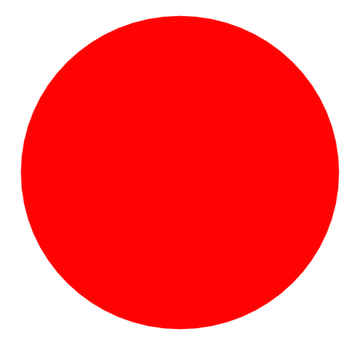
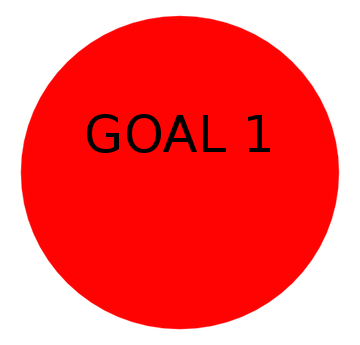
Nearly done mechanics, images labelled for debug'n
Psiturk recording, questionaire, reward probs not done yet.

Changed region(s): [[0.2444, 0.3188, 0.6417, 0.4638], [0.6722, 0.3188, 0.7639, 0.4638]]

diff --git a/web_code/static/js/exp.js b/web_code/static/js/exp.js
@@ -1,103 +1,176 @@
 //------------------------------------------------------------//
-// Below is the ct_bact experiment.
-//
-// A brief overview of experiment control flow:
-// - begin()
-//
+// This file defines the "actual" goals-vs-rewards task. 
 //------------------------------------------------------------//
 var experiment = function() {
-	var wordon, // time word is presented
-	    listening = false;
+	var choice_start;
+	var too_late_timer;
 
-	var stims = [
-			["/static/images/goal1.png","/static/images/goal2.png"],
-			["/static/images/goal2.png","/static/images/goal3.png"],
-			["/static/images/goal2.png","/static/images/goal3.png"],
-		];
+	var box_images  = ["/static/images/box1.jpg","/static/images/box2.jpg"];
+	var goal_images = ["/static/images/goal1.png",
+					   "/static/images/goal2.png",
+					   "/static/images/goal3.png"];
+	var subphase    = "goals";
+	var listening   = false;
+	var stim_order  = [0,1,0];
+	var succ_probs  = [0.8,0.2];
+	var goal_avail  = [0,2];
+	var goal_ind    = 1;
+	//stim_order = _.shuffle(stim_order);
 
-	stims = _.shuffle(stims);
-
-	function displayStim(stim){
-		d3.select("#trial").style("display","inline");
-	    d3.select("#fixation").style("display","none");
-
-		show_choice(stim[0],stim[1]);
-
-		wordon = new Date().getTime();
-		listening = true;
-		d3.select("#query").html('<p id="prompt">Type "F" selects left, "J" to selects right.</p>');
+	// This updates the goals which will be displayed as availabe choices.
+	function updateAvail(goal_ind,goal_avail){
+		var goal_chosen = goal_avail[goal_ind];
+		switch (goal_chosen) {
+			case 0:
+				return [1,2];
+				break;
+			case 1:
+				return [0,2];
+				break;
+			case 2:
+				return [0,1];
+				break;
+		}
 	};
 
-	var nextCycle = function() {
-		if (stims.length===0) {
+	// This runs when a participant runs out of time on a non-goal trial.
+	function tooLate(){
+		listening = false;
+		var response = "";
+
+		d3.select("#trial").style("display","none");
+
+		var too_long_text = "<h1>Sorry, you took to long!</h1><body>Please respond faster next time.<body>"
+		var too_long_div  = d3.select("#container-exp").append("div").html(too_long_text);
+		too_long_div.attr("id","too-long-div")
+
+		setTimeout(function(){
+			d3.select("#too-long-div").remove();
+			var resp_time = -1;
+			recordAndContinue(resp_time,response);
+		},2000)
+	};
+
+	// This records data and continues the experiment.
+	function recordAndContinue(resp_time,response){
+//		var cur_probs  = (cur_order == 0) ? succ_probs:succ_probs.reverse();
+//		var goal_found = Math.random() < cur_probs(goal_ind);
+
+		psiTurk.recordTrialData({'phase'     :"TEST",
+                                 'response'  :response,
+                                 //'goal_found':goal_found,
+                                 'resp_time' :resp_time}
+                               );
+		switch (subphase){
+			case "goals":
+				subphase = "boxes";
+				break;
+			case "boxes":
+				subphase = "goals"
+				break;
+		}
+
+		if (resp_time > 0){
+			var wait_time = 2000;
+			d3.select("#img" + rem_ind).remove();
+			d3.select("#query").html('<p id="prompt">Your selection ...</p>');			
+		}
+		else{
+			var wait_time = 0;
+		}
+
+		setTimeout(function(){
+			d3.select("#img0").remove();
+			d3.select("#img1").remove();
+			nextStep();
+		},wait_time)
+	};
+
+	// This displays a choice between two options, be they goals or boxes.
+	function displayChoice(choice){
+		d3.select("#trial").style("display","inline");
+	    d3.select("#fixation").style("display","none");
+		d3.select("#query").html('<p id="prompt">Type "F" selects left, "J" to selects right.</p>');
+
+		d3.select("#item0")
+			.append("img")
+			.attr("id","img0")
+			.attr("src",choice[0])
+
+		d3.select("#item1")
+			.append("img")
+			.attr("id","img1")
+			.attr("src",choice[1])
+
+		choice_start = new Date().getTime();
+		listening = true;
+		if (subphase == "boxes"){
+			too_late_timer = setTimeout(tooLate,2000);
+		}
+	};
+
+	// This is used to advance through the goal-fixation-box cycle.
+	var nextStep = function() {
+		if (stim_order.length===0) {
 			finish();
 		}
 		else {
-			d3.select("#trial").style("display","none");
-			d3.select("#fixation").style("display","inline");
+			if (subphase == "goals"){
+				d3.select("#trial").style("display","inline");
+				goal_avail = updateAvail(goal_ind,goal_avail)
+				var goals = [goal_images[goal_avail[0]], goal_images[goal_avail[1]]];
+				displayChoice(goals)
+			}
+			else {
+				d3.select("#trial").style("display","none");
+				d3.select("#fixation").style("display","inline");
 
-			stim = stims.shift();
-			timeout_handle = setTimeout(function(){displayStim(stim);},2000);
+				var cur_order  = stim_order.shift();
+				var stim       = (cur_order == 0) ? box_images:box_images.reverse();
+				setTimeout(function(){displayChoice(stim);},500);
+			}
 		}
 	};
 	
+	// Takes input...
 	var response_handler = function(e) {
 		if (!listening) return;
 
-		var keyCode = e.keyCode,
-			response;
+		var keyCode = e.keyCode
+		var	response;
 
 		switch (keyCode) {
 			case 70: // "F"
-				response="left";
+				response = "left";
+				goal_ind = 0;
+				rem_ind  = 1;
 				break;
 			case 74: // "J"
-				response="right";
+				response = "right";
+				goal_ind = 1;
+				rem_ind  = 0;
 				break;
 			default:
 				response = "";
 				break;
 		}
 		if (response.length > 0) {
+			var resp_time  = new Date().getTime() - choice_start;
 			listening = false;
-			var hit = response == stim[1];
-			var rt = new Date().getTime() - wordon;
-
-			psiTurk.recordTrialData({'phase'   :"TEST",
-                                     //;'word'    :stim[0],
-                                     //;'color'   :stim[1],
-                                     //'relation':stim[2],
-                                     'response':response,
-                                     //'hit'     :hit,
-                                     'rt'      :rt}
-                                   );
-			remove_images();
-			nextCycle();
+			clearTimeout(too_late_timer);
+			recordAndContinue(resp_time,response);
 		}
 	};
 
-	var show_choice = function(src1, src2) {
-		d3.select("#item1")
-			.append("img")
-			.attr("id","img1")
-			.attr("src",src1)
-
-		d3.select("#item2")
-			.append("img")
-			.attr("id","img2")
-			.attr("src",src2)
-	};
-
-	var remove_images = function() {
-		d3.select("#img1").remove();
-		d3.select("#img2").remove();
-	};
-
+	// This moves the participant out of the experimental task
+	// and on to the questionaire.
 	var finish = function() {
 	    $("body").unbind("keydown", response_handler); // Unbind keys
 	    currentview = new Questionnaire();
 	};
 	
+
+
 	// Load the stage.html snippet into the body of the page
 	psiTurk.showPage('stage.html');
 
@@ -106,5 +179,5 @@ var experiment = function() {
 	$("body").focus().keydown(response_handler); 
 
 	// Start the test
-	nextCycle();
+	nextStep();
 };

diff --git a/web_code/templates/stage.html b/web_code/templates/stage.html
@@ -10,8 +10,8 @@
 		<h1>Choose Quickly!</h1>
 		<table style="width:100%">
 			<tr>
-				<td id="item1"></td>
-				<td id="item2"></td> 
+				<td id="item0"></td>
+				<td id="item1"></td> 
 			</tr>
 		</table>
 		<div id="stim"></div>
